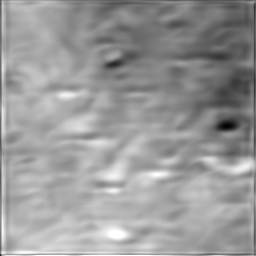
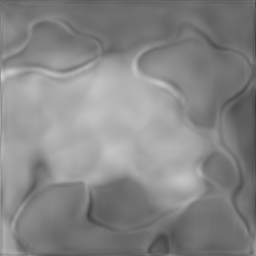
Vanilla GAN works pretty well on cirrus clouds now

diff --git a/generator.py b/generator.py
@@ -1,4 +1,5 @@
 import tensorflow as tf
+import tensorflow_addons as tfa
 
 """
 
@@ -7,7 +8,7 @@ This class is where we define the discriminator as an object.
 """
 
 class Generator(tf.keras.Model):
-    def __init__(self, learning_rate=0.00002):
+    def __init__(self, learning_rate=1e-4):
 
         # I don't know why this is here, but I'm afraid to touch it.
         ######vvv DO NOT CHANGE vvvv##############
@@ -20,44 +21,44 @@ class Generator(tf.keras.Model):
         # Dimension of the latent space.
         self.latent_dimension = 100
 
+        self.initialize_std_dev = 0.1
+        
         # First use some dense layers to transform latent space
-        self.d0 = tf.keras.layers.Dense(128, use_bias=True)
+        self.d0 = tf.keras.layers.Dense(64, use_bias=True, kernel_initializer=tf.keras.initializers.TruncatedNormal(0, self.initialize_std_dev), bias_initializer=tf.keras.initializers.TruncatedNormal(0, self.initialize_std_dev))
         self.b0 = tf.keras.layers.BatchNormalization()
         self.lr0 = tf.keras.layers.LeakyReLU()
-        # -- Start at 16 x 16 --
-        self.d1 = tf.keras.layers.Dense(256, use_bias=True)
+        # -- Start at 4 x 4 x 512 channels --
+        self.d1 = tf.keras.layers.Dense(4*4*128, use_bias=False, kernel_initializer=tf.keras.initializers.TruncatedNormal(0, self.initialize_std_dev), bias_initializer=tf.keras.initializers.TruncatedNormal(0, self.initialize_std_dev))
+        
+        # Batch norms and activations for convolutional layers.
+        self.lr = [tf.keras.layers.LeakyReLU() for i in range(7)]
+        self.b = [tf.keras.layers.BatchNormalization() for i in range(7)]
 
-        self.lr2 = tf.keras.layers.LeakyReLU()
-        self.c2 = tf.keras.layers.Conv2D(filters=16, kernel_size=5, strides=1, padding='same')
-        self.b2 = tf.keras.layers.BatchNormalization()
-        # -- Scale to 64x64 --
-        self.lr3 = tf.keras.layers.LeakyReLU()
-        self.c3 = tf.keras.layers.Conv2D(filters=16, kernel_size=5, strides=1, padding='same')
-        self.b3 = tf.keras.layers.BatchNormalization()
-        # -- Scale to 128x128 --
-        self.lr4 = tf.keras.layers.LeakyReLU()
-        self.c4 = tf.keras.layers.Conv2D(filters=8, kernel_size=5, strides=1, padding='same')
-        self.b4 = tf.keras.layers.BatchNormalization()
-        # -- Scale to 256x256 --
-        self.c5 = tf.keras.layers.Conv2D(filters=1, kernel_size=5, strides=1, padding='same', use_bias=False)
+        # 4x4 => 256x256 means we need 6 convolutional layers, plus one final one
+        self.c0 = tf.keras.layers.Conv2D(filters=32, kernel_size=3, strides=1, padding='same', kernel_initializer=tf.keras.initializers.TruncatedNormal(0, self.initialize_std_dev), bias_initializer=tf.keras.initializers.TruncatedNormal(0, self.initialize_std_dev))
+        self.c1 = tf.keras.layers.Conv2D(filters=32, kernel_size=3, strides=1, padding='same', kernel_initializer=tf.keras.initializers.TruncatedNormal(0, self.initialize_std_dev), bias_initializer=tf.keras.initializers.TruncatedNormal(0, self.initialize_std_dev))
+        self.c2 = tf.keras.layers.Conv2D(filters=32, kernel_size=3, strides=1, padding='same', kernel_initializer=tf.keras.initializers.TruncatedNormal(0, self.initialize_std_dev), bias_initializer=tf.keras.initializers.TruncatedNormal(0, self.initialize_std_dev))
+        self.c3 = tf.keras.layers.Conv2D(filters=32, kernel_size=3, strides=1, padding='same', kernel_initializer=tf.keras.initializers.TruncatedNormal(0, self.initialize_std_dev), bias_initializer=tf.keras.initializers.TruncatedNormal(0, self.initialize_std_dev))
+        self.c4 = tf.keras.layers.Conv2D(filters=32, kernel_size=3, strides=1, padding='same', kernel_initializer=tf.keras.initializers.TruncatedNormal(0, self.initialize_std_dev), bias_initializer=tf.keras.initializers.TruncatedNormal(0, self.initialize_std_dev))
+        self.c5 = tf.keras.layers.Conv2D(filters=32, kernel_size=3, strides=1, padding='same', kernel_initializer=tf.keras.initializers.TruncatedNormal(0, self.initialize_std_dev), bias_initializer=tf.keras.initializers.TruncatedNormal(0, self.initialize_std_dev))
+        self.c6 = tf.keras.layers.Conv2D(filters=32, kernel_size=3, strides=1, padding='same', kernel_initializer=tf.keras.initializers.TruncatedNormal(0, self.initialize_std_dev), bias_initializer=tf.keras.initializers.TruncatedNormal(0, self.initialize_std_dev))
+        # Final Convolution
+        self.c7 = tf.keras.layers.Conv2D(filters=1, kernel_size=3, strides=1, padding='same', kernel_initializer=tf.keras.initializers.TruncatedNormal(0, self.initialize_std_dev), bias_initializer=tf.keras.initializers.TruncatedNormal(0, self.initialize_std_dev))
 
     @tf.function
     def call(self, input):
         # Our input is an element of the latent space, so it has dimension
         # self.latent_dimension. We'll apply a dense layer and reshape to a 16x16 grid.
-        grid = tf.reshape(self.d1(self.lr0(self.b0(self.d0(input)))), (input.shape[0], 16, 16, 1))
+        grid = tf.reshape(self.d1(self.lr0(self.b0(self.d0(input)))), (input.shape[0], 4, 4, 128))
 
-        # Next we'll apply a series of convolutional layers and batch norms, 
-        # "decoding" the latent state.
-        conv2 = self.lr2(self.b2(self.c2(grid)))
-        # -- Scale to 64x64 --
-        conv2 = tf.image.resize(conv2, [64, 64])
-        conv3 = self.lr3(self.b3(self.c3(conv2)))
-        # -- Scale to 128x128 --
-        conv3 = tf.image.resize(conv3, [128, 128])
-        conv4 = self.lr4(self.b4(self.c4(conv3)))
-        # -- Scale to 256x256 --
-        conv4 = tf.image.resize(conv4, [256, 256])
-        conv5 = self.c5(conv4)
-        
-        return conv5
+        # Pipe through convolutions/upscales.
+        conv0 = tf.image.resize(self.lr[0](self.b[0](self.c0(grid))), [8, 8])
+        conv1 = tf.image.resize(self.lr[1](self.b[1](self.c1(conv0))), [16, 16])
+        conv2 = tf.image.resize(self.lr[2](self.b[2](self.c2(conv1))), [32, 32])
+        conv3 = tf.image.resize(self.lr[3](self.b[3](self.c3(conv2))), [64, 64])
+        conv4 = tf.image.resize(self.lr[4](self.b[4](self.c4(conv3))), [128, 128])
+        conv5 = tf.image.resize(self.lr[5](self.b[5](self.c5(conv4))), [256, 256])
+        conv6 = self.lr[6](self.b[6](self.c6(conv5)))
+
+        # Final convolution
+        return self.c7(conv6)

diff --git a/discriminator.py b/discriminator.py
@@ -7,7 +7,7 @@ This class is where we define the discriminator as an object.
 """
 
 class Discriminator(tf.keras.Model):
-    def __init__(self, learning_rate=0.00002):
+    def __init__(self, learning_rate=2e-5):
 
         # I don't know why this is here, but I'm afraid to touch it.
         ######vvv DO NOT CHANGE vvvv##############
@@ -17,21 +17,26 @@ class Discriminator(tf.keras.Model):
         # Define the optimizer we want to use to train the model.
         self.optimizer = tf.keras.optimizers.Adam(learning_rate=learning_rate, beta_1=0.5)
 
-        self.bn = tf.keras.layers.BatchNormalization()
-        self.c1 = tf.keras.layers.Conv2D(filters=2, kernel_size=3, strides=2, padding='same', activation="relu")
-        self.c2 = tf.keras.layers.Conv2D(filters=4, kernel_size=3, strides=2, padding='same', activation="relu")
-        self.c3 = tf.keras.layers.Conv2D(filters=8, kernel_size=3, strides=2, padding='same', activation="relu")
+        self.initialize_std_dev = 0.1
+
+        self.bn1 = tf.keras.layers.BatchNormalization()
+        self.bn2 = tf.keras.layers.BatchNormalization()
+        self.c1 = tf.keras.layers.Conv2D(filters=16, kernel_size=3, strides=1, padding='same', activation="relu", kernel_initializer=tf.keras.initializers.TruncatedNormal(0, self.initialize_std_dev), bias_initializer=tf.keras.initializers.TruncatedNormal(0, self.initialize_std_dev))
+        self.c2 = tf.keras.layers.Conv2D(filters=32, kernel_size=3, strides=1, padding='same', activation="relu", kernel_initializer=tf.keras.initializers.TruncatedNormal(0, self.initialize_std_dev), bias_initializer=tf.keras.initializers.TruncatedNormal(0, self.initialize_std_dev))
+        self.c3 = tf.keras.layers.Conv2D(filters=64, kernel_size=3, strides=1, padding='same', activation="relu", kernel_initializer=tf.keras.initializers.TruncatedNormal(0, self.initialize_std_dev), bias_initializer=tf.keras.initializers.TruncatedNormal(0, self.initialize_std_dev))
         self.flatten = tf.keras.layers.Flatten()
-        self.d1 = tf.keras.layers.Dense(32, activation="relu")
-        self.d2 = tf.keras.layers.Dense(1)
+        self.d1 = tf.keras.layers.Dense(64, activation="relu", kernel_initializer=tf.keras.initializers.TruncatedNormal(0, self.initialize_std_dev), bias_initializer=tf.keras.initializers.TruncatedNormal(0, self.initialize_std_dev))
+        self.d2 = tf.keras.layers.Dense(1, kernel_initializer=tf.keras.initializers.TruncatedNormal(0, self.initialize_std_dev), bias_initializer=tf.keras.initializers.TruncatedNormal(0, self.initialize_std_dev))
 
     @tf.function
     def call(self, input):
         # Our input is a batch of N single-channel 400x400 images,
         # so its shape is: (N, 400, 400, 1)
         # We want to output a prediction of real/fake for each one.
-        convolved = self.c3(self.c2(self.c1(input)))
-        flattened = self.flatten(convolved)
+        conv1 = self.bn1(self.c1(input))
+        conv2 = self.bn2(self.c2(tf.image.resize(conv1, (128, 128))))
+        conv3 = self.c3(tf.image.resize(conv2, (64, 64)))
+        flattened = tf.concat([self.flatten(conv1), self.flatten(conv2), self.flatten(conv3)], 1)
         logits = self.d2(self.d1(flattened))
         return logits
 

diff --git a/model_runner.py b/model_runner.py
@@ -6,7 +6,9 @@ import preprocess
 import generator
 import discriminator
 
-k_data_path = "/home/brad/Graphics/CloudGAN/CloudGAN/data/CCSN/unpacked"
+# k_data_path = "/home/brad/Graphics/CloudGAN/CloudGAN/data/CCSN/unpacked"
+k_data_path = "/home/brad/Graphics/CloudGAN/CloudGAN/data/CCSN/CCSN_v2/Ci"
+# k_data_path = "/home/brad/Graphics/CloudGAN/CloudGAN/data/CCSN/CCSN_v2/Ac"
 k_real = 0.0
 k_fake = 1.0
 
@@ -74,14 +76,14 @@ def train_epoch(generator, discriminator, real_images, epoch, batch_size=16):
 
 def train(generator, discriminator, real_images, test_latent_state, epochs=1):
     for i in range(epochs):
-        train_epoch(generator, discriminator, real_images, i)
         if i % 10 == 0:
-            test(generator, test_latent_state, "test-imgs/test_" + str(i) + ".png")
+            test(generator, test_latent_state, "test-imgs/test_" + str(i))
+        train_epoch(generator, discriminator, real_images, i)
         # TODO: checkpoint
 
 def view(generator, state):
     # Generate a random image
-    image = generator(state)
+    image = generator(state[0,:,:,:])
     cv2.imwrite("test.png", 255 * np.clip(tf.squeeze(image).numpy(), 0, 1))
     cv2.imshow('Generated', tf.squeeze(image).numpy())
     cv2.waitKey(0)
@@ -90,7 +92,9 @@ def view(generator, state):
 def test(generator, state, path):
     # Generate a random image
     image = generator(state)
-    cv2.imwrite(path, 255 * np.clip(tf.squeeze(image).numpy(), 0, 1))
+    cv2.imwrite(path + "_0.png", 255 * np.clip(tf.squeeze(image[0,:,:,:]).numpy(), 0, 1))
+    cv2.imwrite(path + "_1.png", 255 * np.clip(tf.squeeze(image[1,:,:,:]).numpy(), 0, 1))
+    cv2.imwrite(path + "_2.png", 255 * np.clip(tf.squeeze(image[2,:,:,:]).numpy(), 0, 1))
 
 def run():
     """
@@ -103,10 +107,10 @@ def run():
     generator, discriminator = setup_model()
 
     # Global canonical latent state for testing
-    test_latent_state = tf.random.normal([1, generator.latent_dimension], seed=1)
+    test_latent_state = tf.random.normal([3, generator.latent_dimension], seed=1)
 
     # Train the model
-    k_epochs = 500
+    k_epochs = 5000
     train(generator, discriminator, images, test_latent_state, k_epochs)
 
     # View an example

diff --git a/preprocess.py b/preprocess.py
@@ -13,10 +13,13 @@ def preprocess(path):
         img = cv2.imread(path + "/" + file, cv2.IMREAD_GRAYSCALE)
         # Make sure all images are 256x256
         img = cv2.resize(img, kImageSize)
+        # Normalize
+        img = np.float32(img)
+        img = img / 255.0
+        # Increase contrast
+        img = np.clip(2 * (img - 0.5) + 0.5, 0, 1)
         images.append(img)
     images = np.array(images)
-    # Normalize to [0, 1]
-    images = images/ 255.0
     # Expand so final array is channels
     images = np.expand_dims(images, len(images.shape))
     print("Processed " + str(images.shape[0]) + " images")
